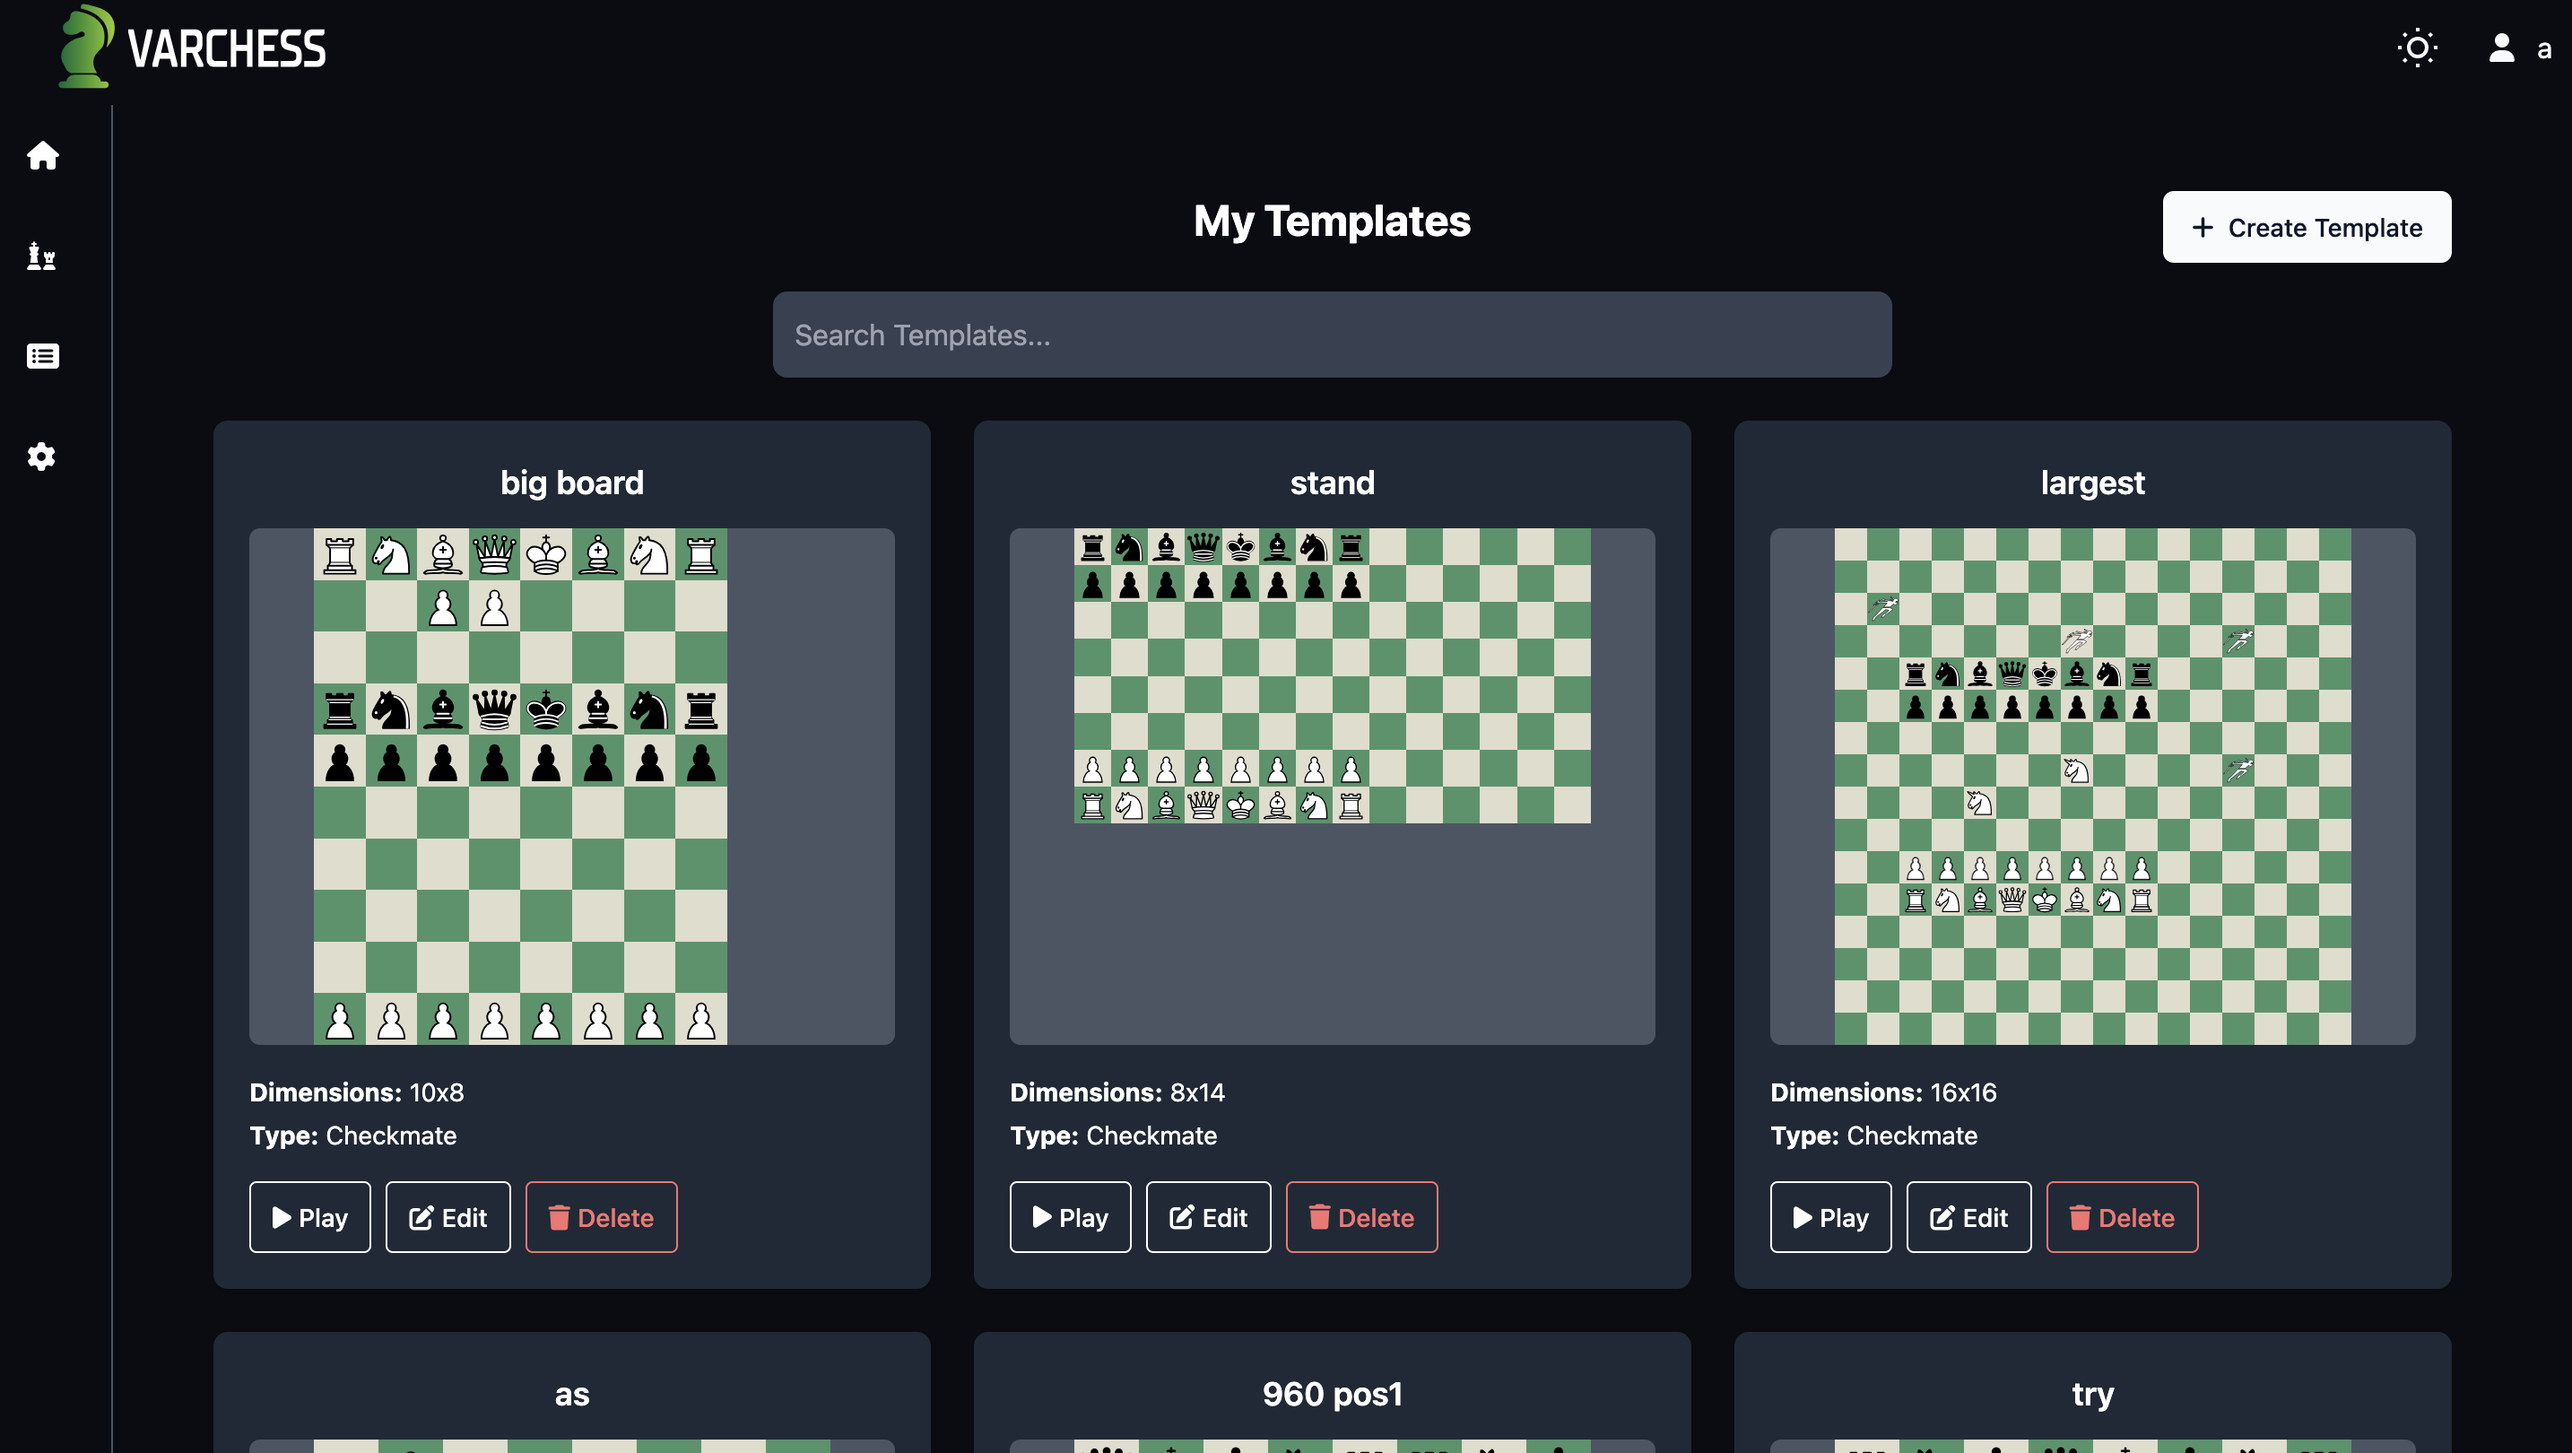
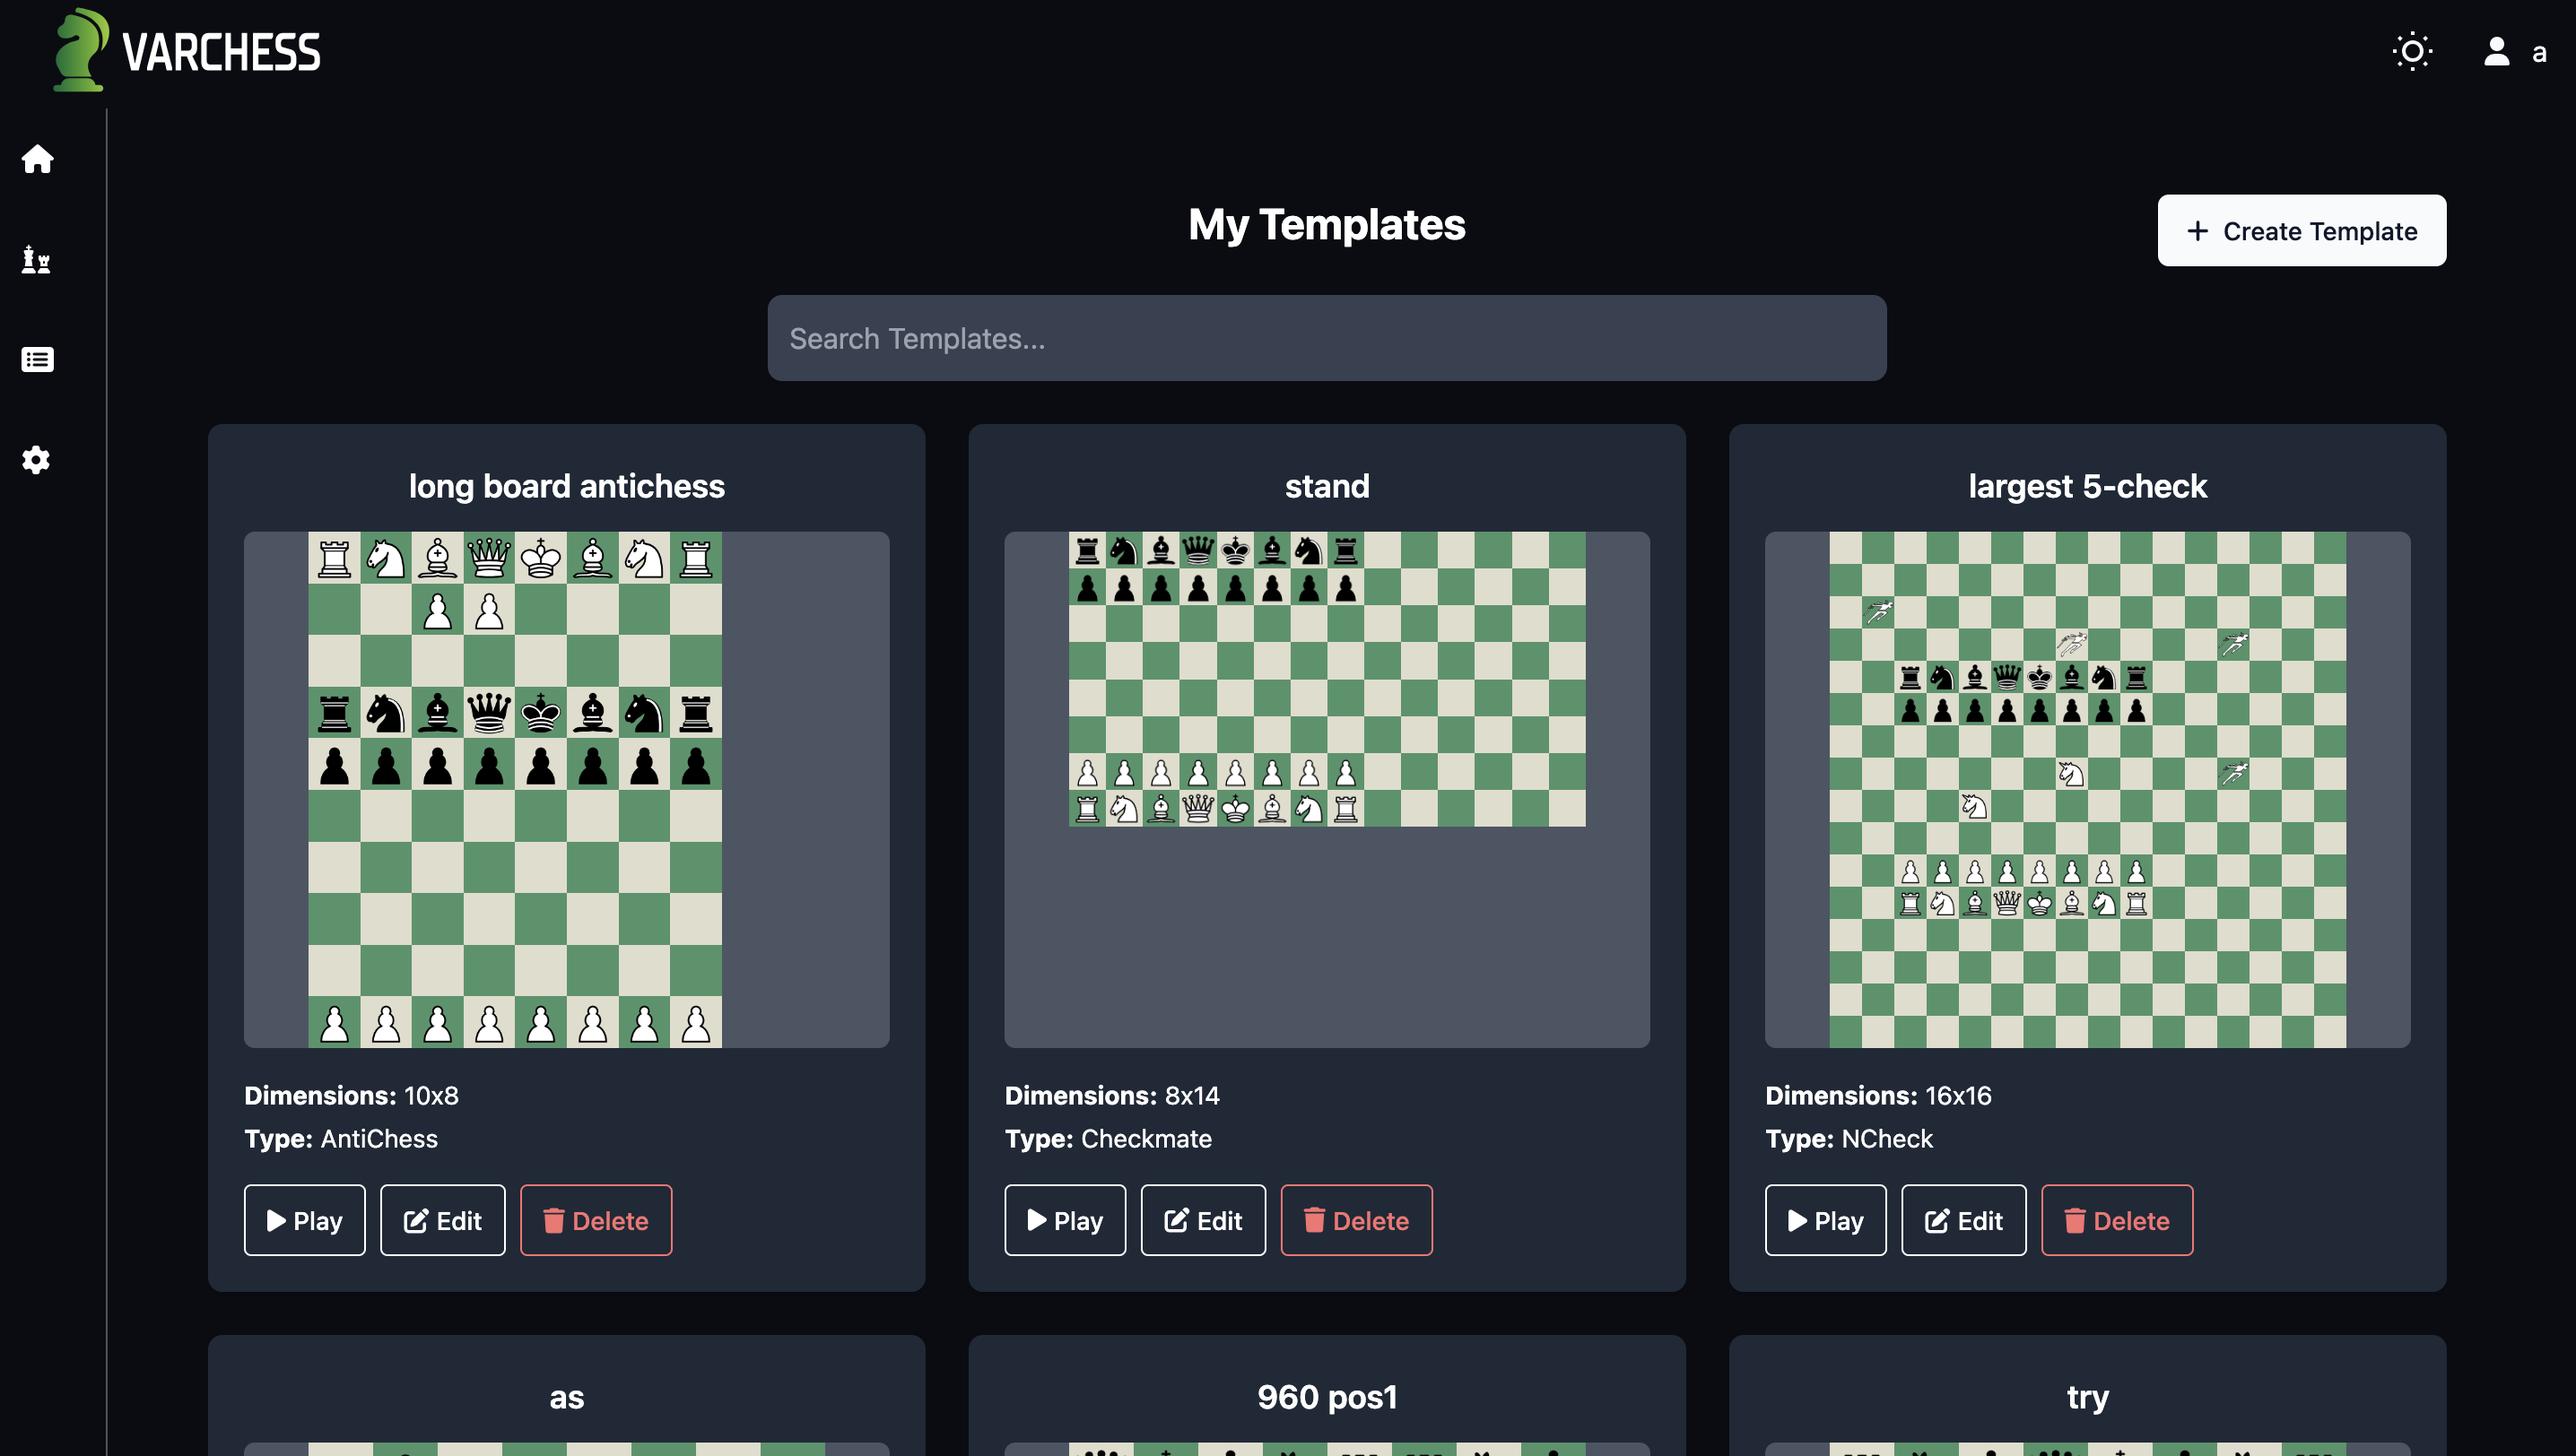
update imgs

diff --git a/vc-client/src/routes/editor/+page.svelte b/vc-client/src/routes/editor/+page.svelte
@@ -299,7 +299,7 @@
 					<ExpandableCard svg={pieceSvg} title="Piece Editor">
 						<PieceEditor />
 					</ExpandableCard>
-					<ExpandableCard iconClass="fa-solid fa-clipboard-list fa-lg" title="Rules Editor">
+					<ExpandableCard iconClass="fa-solid fa-clipboard-list fa-lg" title="Rule Editor">
 						<RulesEditor />
 					</ExpandableCard>
 				</div>

diff --git a/README.md b/README.md
@@ -3,7 +3,7 @@
 ## Overview
 Varchess is a multiplayer chess website where you can create your own chess variants. Customizations include variable board dimensions, piece placements, walls, game formats/rules and custom pieces with new movement patterns.
 
-![Game Editor](docs/editor.png)
+![Game Editor](docs/editor2.png)
 
 ![Piece Move Pattern Editor](docs/mpeditor.png)
 
